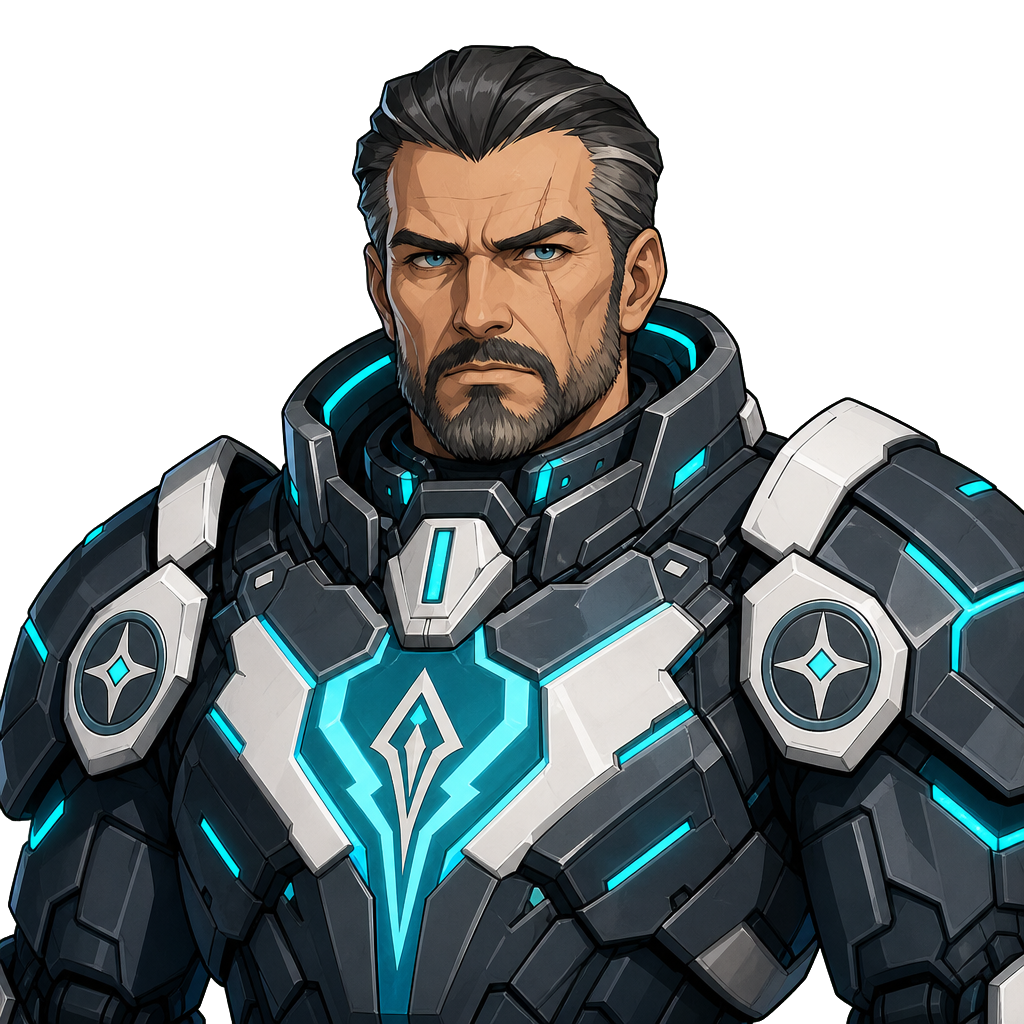
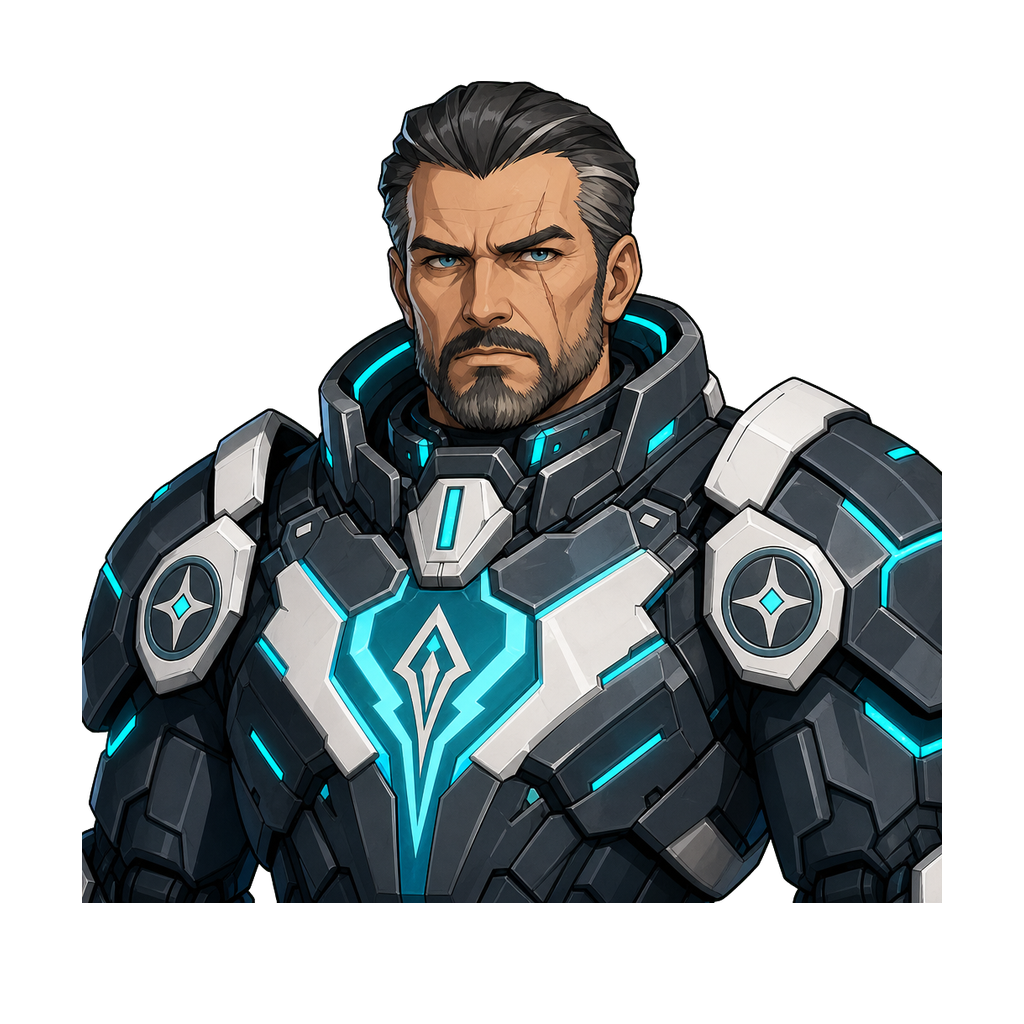
Complete NPC portrait and sprite asset audit

diff --git a/task.md b/task.md
@@ -106,9 +106,9 @@ This file tracks the step-by-step implementation of World 3 Hub 2 ("Upper City /
 - `[x]` Generate, inspect, install, and wire all World 5 room backgrounds
 - `[x]` Generate and wire World 3 and World 4 room backgrounds
 - `[x]` Replace placeholder hub maps and node icons
-- `[ ]` Generate missing NPC portraits and enemy combat sprites
-    - `[ ]` Replace borrowed NPC portraits for `the_warden`, `jax`, `mika`, `curator`, `lab_terminal`, `thorne`, `maintenance_bot`, `elara`, and `vale`
-    - `[ ]` Create missing enemy files: `core_drill_behemoth_combat.png`, `mutated_crawler_combat.png`, `sentinel_droid_combat.png`, `aero_drone_combat.png`, `sentinel_orb_combat.png`, `ruin_guardian_combat.png`, and `phantom_assassin_combat.png`
-    - `[ ]` Wire identity-specific NPC portraits and run `validate_dialogue_emotes.py`
+- `[x]` Generate missing NPC portraits and enemy combat sprites
+    - `[x]` Replace borrowed NPC portraits for `the_warden`, `jax`, `mika`, `curator`, `lab_terminal`, `thorne`, `maintenance_bot`, `elara`, and `vale`
+    - `[x]` Create missing enemy files: `core_drill_behemoth_combat.png`, `mutated_crawler_combat.png`, `sentinel_droid_combat.png`, `aero_drone_combat.png`, `sentinel_orb_combat.png`, `ruin_guardian_combat.png`, and `phantom_assassin_combat.png`
+    - `[x]` Wire identity-specific NPC portraits and run `validate_dialogue_emotes.py`
 - `[ ]` Complete audio production and assignment
 - `[ ]` Run full campaign playtest and balance pass

diff --git a/antigravity_handoff.md b/antigravity_handoff.md
@@ -44,11 +44,10 @@ These were generated as 1088x1920 PNG files with `gpt-image-2` at low quality, v
 
 ## Recommended Next Work
 
-1. Audit and create missing NPC portraits and enemy combat sprites, then run the dialogue-emote validator.
-2. Audit music and sound-effect references, generate required audio with ElevenLabs, install it in the established asset locations, and validate every reference.
-3. Run a full campaign playtest and balance pass from a clean save, followed by the complete automated regression suite.
+1. Audit music and sound-effect references, generate required audio with ElevenLabs, install it in the established asset locations, and validate every reference.
+2. Run a full campaign playtest and balance pass from a clean save, followed by the complete automated regression suite.
 
-The portrait/sprite audit is complete. Nine NPC identities still borrow generic or unrelated art: `the_warden`, `jax`, `mika`, `curator`, `lab_terminal`, `thorne`, `maintenance_bot`, `elara`, and `vale`. Seven enemy image references are missing on disk: `core_drill_behemoth_combat.png`, `mutated_crawler_combat.png`, `sentinel_droid_combat.png`, `aero_drone_combat.png`, `sentinel_orb_combat.png`, `ruin_guardian_combat.png`, and `phantom_assassin_combat.png`. Treat this list as the next bounded production manifest.
+The portrait/sprite production block is complete. The nine NPC portrait files (`the_warden`, `jax`, `mika`, `curator`, `lab_terminal`, `thorne`, `maintenance_bot`, `elara`, and `vale`) and the seven enemy combat sprites (`core_drill_behemoth_combat.png`, `mutated_crawler_combat.png`, `sentinel_droid_combat.png`, `aero_drone_combat.png`, `sentinel_orb_combat.png`, `ruin_guardian_combat.png`, and `phantom_assassin_combat.png`) are installed under `world_assets/src/main/assets/images/`. On 2026-06-22, `the_warden.png` and `vale.png` were repadded to fix opaque corner pixels, with originals archived under `world_assets/src/main/assets/images/npcs/_archive/20260622_canvas_padding_fix/`. The referenced NPC/enemy portrait audit reports 0 missing paths, `validate_dialogue_emotes.py --fail-on-missing --min-uses 12` passes, and `:app:testDebugUnitTest :app:runAssetIntegrity` passes.
 
 ## Required Reading Order
 